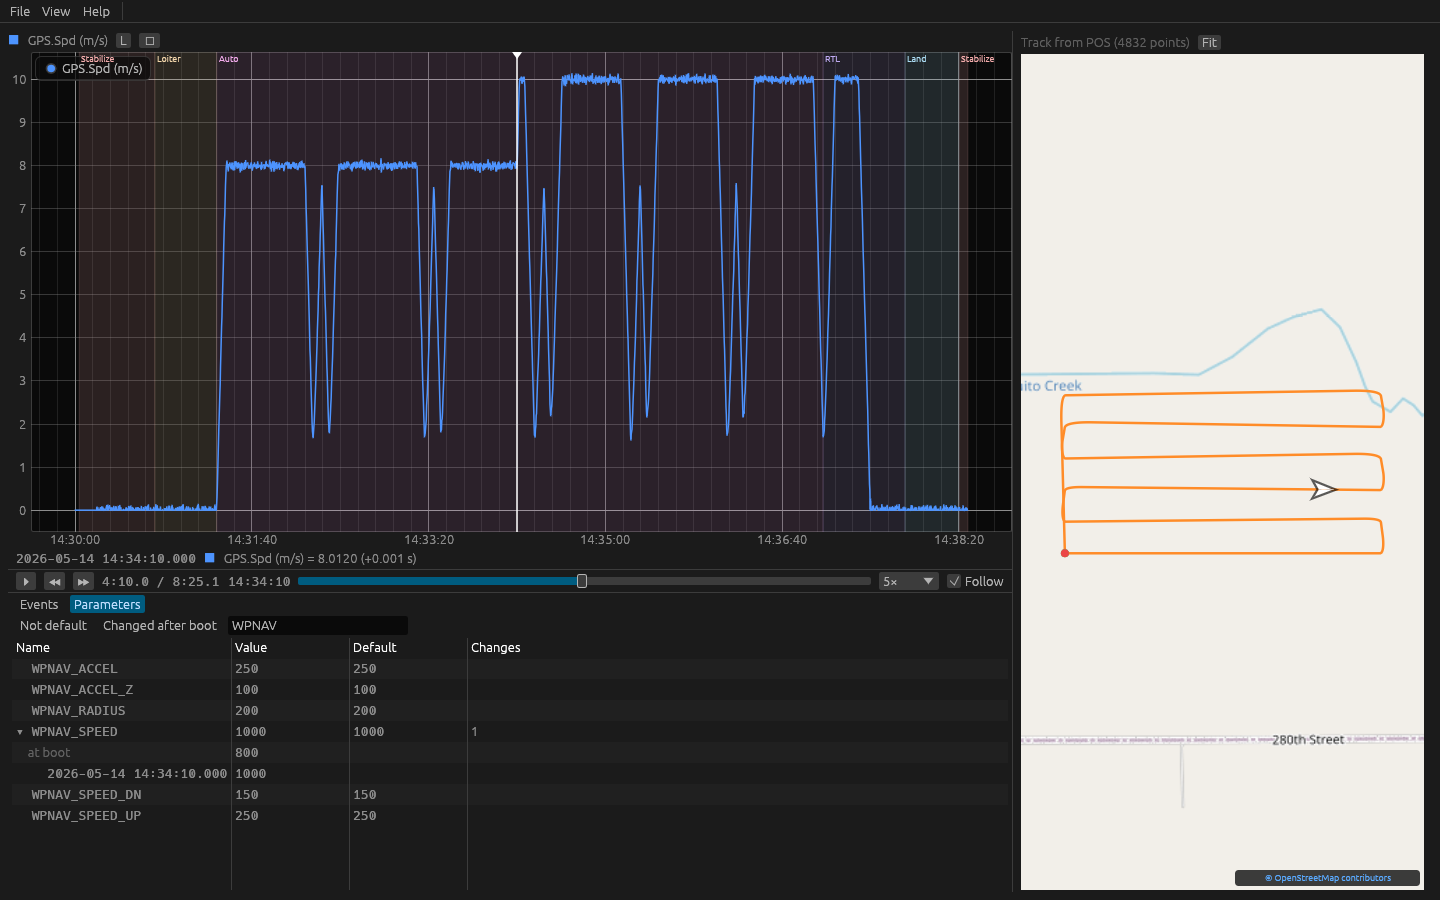
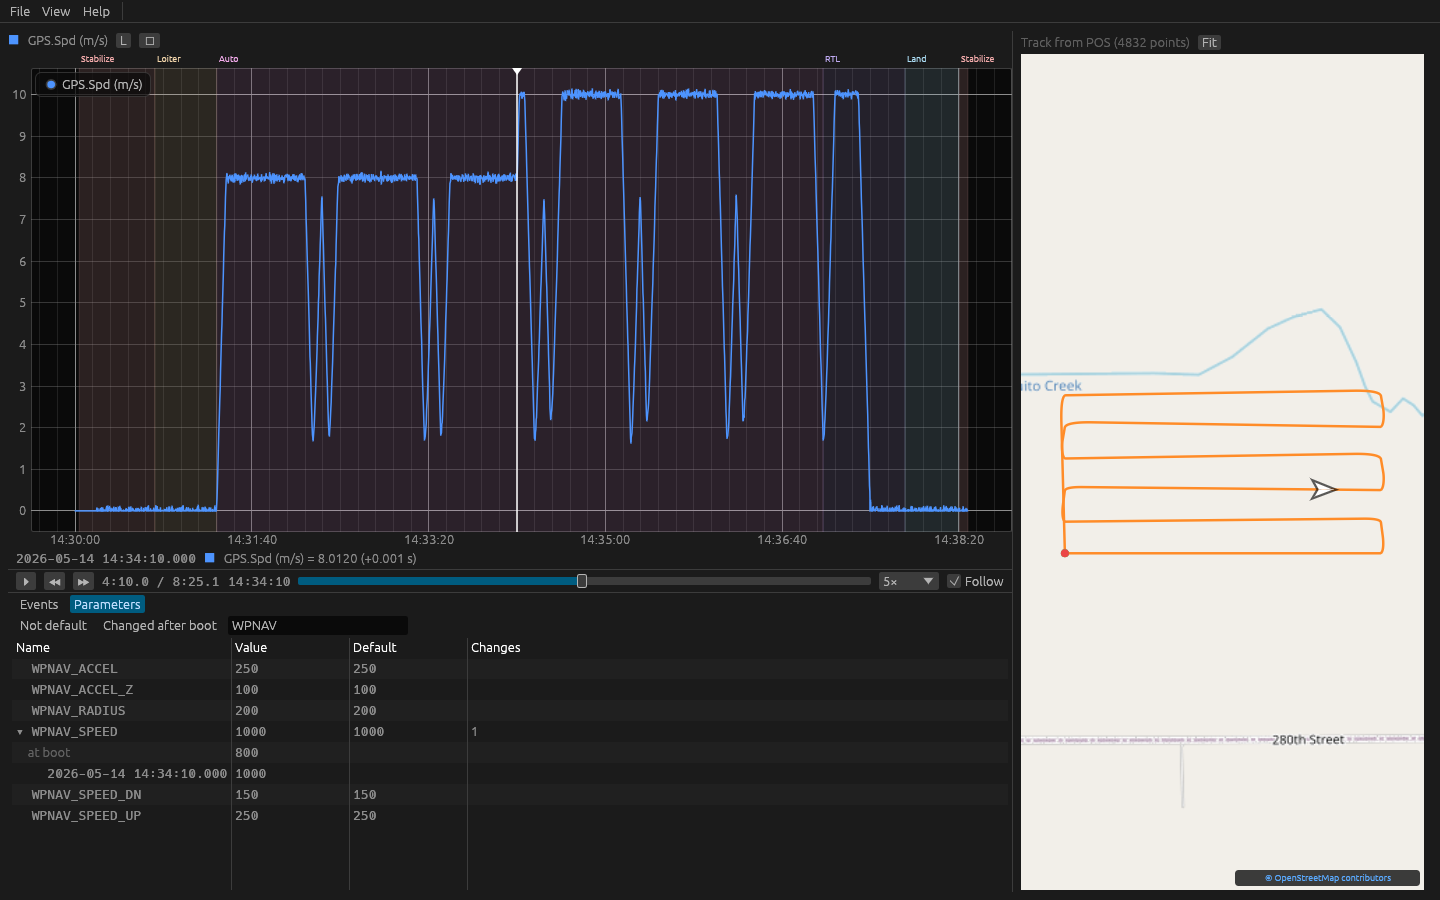
Name the flight modes in a lane above the plot
Paint the mode names in a lane of their own above the plot rather than
along its top edge, where the legend covered the first of them and the
data could run over the rest. The lane shows with the mode bands only.
Render the README's pictures again.

diff --git a/crates/app/src/plot.rs b/crates/app/src/plot.rs
@@ -4,7 +4,7 @@
 
 use std::ops::RangeInclusive;
 
-use egui::{Align2, Color32, Id, Pos2, Shape, Stroke, pos2};
+use egui::{Align2, Color32, Id, Pos2, Rect, Shape, Stroke, pos2};
 use egui_plot::{
     AxisHints, Corner, GridMark, HPlacement, Legend, Line, Plot, PlotBounds, PlotGeometry,
     PlotItem, PlotItemBase, PlotMemory, PlotPoint, PlotPoints, PlotTransform, Span,
@@ -291,18 +291,20 @@ impl PlotPanel {
         memory.store(ctx, id);
     }
 
-    /// The series chips, the plot and the cursor readout. The readout takes
-    /// a panel at the bottom sized to its lines, and the plot the rest.
-    /// While `playing`, the pointer leaves the cursor alone and a zoomed
-    /// view pages to keep the playhead on screen.
+    /// The series chips, the lane of flight mode names, the plot and the
+    /// cursor readout. The readout takes a panel at the bottom sized to its
+    /// lines, and the plot the rest. While `playing`, the pointer leaves
+    /// the cursor alone and a zoomed view pages to keep the playhead on
+    /// screen.
     pub fn show(&mut self, ui: &mut egui::Ui, log: &LoadedLog, settings: &Settings, playing: bool) {
         self.series_bar(ui);
         egui::Panel::bottom("plot_readout")
             .resizable(false)
             .show_separator_line(false)
             .show(ui, |ui| self.readout_bar(ui, log, settings));
+        let strip = settings.show_modes.then(|| mode_strip(ui));
         let plot_height = ui.available_height().max(120.0);
-        self.plot(ui, log, settings, plot_height, playing);
+        self.plot(ui, log, settings, plot_height, playing, strip);
     }
 
     /// One chip per series: its color, name, axis and a way off the plot.
@@ -349,6 +351,7 @@ impl PlotPanel {
         settings: &Settings,
         height: f32,
         playing: bool,
+        strip: Option<Rect>,
     ) {
         let map = AxisMap::new(&self.selected);
         // A reset rebuilds the plot's memory with nothing hidden and the
@@ -452,10 +455,12 @@ impl PlotPanel {
             }
         });
 
-        // The mode names are painted over the frame rather than as plot
-        // items, so they do not enter the bounds the plot fits its data in.
-        if show_modes {
-            mode_labels(ui, log, &response.transform);
+        // The mode names go in their own lane above the plot, where
+        // neither the legend nor the data covers them, painted rather than
+        // plot items, so they do not enter the bounds the plot fits its
+        // data in.
+        if let Some(strip) = strip {
+            mode_labels(ui, log, &response.transform, strip);
         }
         let found = response.inner;
         self.hover = found.at;
@@ -907,18 +912,43 @@ impl PlotItem for TimeMark {
     }
 }
 
-/// Each visible band's mode name at its top left, a band that starts off
-/// the left edge labeled at the edge, clipped to the plot frame.
-fn mode_labels(ui: &egui::Ui, log: &LoadedLog, transform: &egui_plot::PlotTransform) {
-    let frame = *transform.frame();
-    let painter = ui.painter().with_clip_rect(frame);
+/// The lane above the plot that the flight modes' names go in, a line of
+/// small text high, taken from the top of `ui`'s room.
+fn mode_strip(ui: &mut egui::Ui) -> Rect {
+    let height = egui::TextStyle::Small.resolve(ui.style()).size + 4.0;
+    ui.allocate_space(egui::vec2(ui.available_width(), height))
+        .1
+}
+
+/// Where each visible band's mode name goes in `strip`, the lane above
+/// the plot's frame: over the band's start, or at the frame's left edge
+/// for a band that starts off it.
+fn label_spots<'a>(
+    log: &'a LoadedLog,
+    transform: &PlotTransform,
+    strip: Rect,
+) -> Vec<(Pos2, &'a ModeChange)> {
+    let frame = transform.frame();
+    visible_bands(log, &transform.bounds().range_x())
+        .into_iter()
+        .map(|(mode, _)| {
+            let x = transform
+                .position_from_point_x(mode.time)
+                .max(frame.left() + 2.0);
+            (pos2(x + 2.0, strip.top() + 2.0), mode)
+        })
+        .collect()
+}
+
+/// Each visible band's mode name in `strip`, clipped to the width of the
+/// plot's frame.
+fn mode_labels(ui: &egui::Ui, log: &LoadedLog, transform: &PlotTransform, strip: Rect) {
+    let lane = Rect::from_x_y_ranges(transform.frame().x_range(), strip.y_range());
+    let painter = ui.painter().with_clip_rect(lane);
     let font = egui::TextStyle::Small.resolve(ui.style());
-    for (mode, _) in visible_bands(log, &transform.bounds().range_x()) {
-        let x = transform
-            .position_from_point_x(mode.time)
-            .max(frame.left() + 2.0);
+    for (at, mode) in label_spots(log, transform, strip) {
         painter.text(
-            egui::pos2(x + 2.0, frame.top() + 2.0),
+            at,
             Align2::LEFT_TOP,
             &mode.name,
             font.clone(),
@@ -1625,6 +1655,37 @@ mod tests {
         harness.step();
         assert!(harness.state().hidden.is_empty(), "and after it");
         assert!(harness.state().zoomed_range(&harness.ctx).is_none());
+    }
+
+    /// The mode names sit in a lane of their own above the plot, clear of
+    /// the legend in its top left corner, and the lane goes with the
+    /// bands.
+    #[test]
+    fn the_mode_names_sit_above_the_plot() {
+        let log = LoadedLog::build(
+            dflog::Log::from_bytes(&crate::model::testlog::bytes()),
+            "test.bin".into(),
+        );
+        let with = Settings::default();
+        let without = Settings {
+            show_modes: false,
+            ..Settings::default()
+        };
+        let frame = |settings: &Settings| *transform(&roll_plot(&log, settings)).frame();
+        let (frame, bare) = (frame(&with), frame(&without));
+        let lane = frame.top() - bare.top();
+        assert!(lane > 10.0, "the lane takes {lane}");
+
+        let transform = transform(&roll_plot(&log, &with));
+        let strip = Rect::from_x_y_ranges(frame.x_range(), frame.top() - lane..=frame.top());
+        let spots = label_spots(&log, &transform, strip);
+        let names: Vec<&str> = spots.iter().map(|(_, m)| m.name.as_str()).collect();
+        // Stabilize began before the view, so it is named at its left edge
+        assert_eq!(names, ["Stabilize", "Loiter"]);
+        assert!(spots.iter().all(|(at, _)| at.y < frame.top()));
+        assert!((spots[0].0.x - (frame.left() + 4.0)).abs() < 1e-3);
+        let loiter = transform.position_from_point_x(2.25) + 2.0;
+        assert!((spots[1].0.x - loiter).abs() < 1e-3);
     }
 
     #[test]
